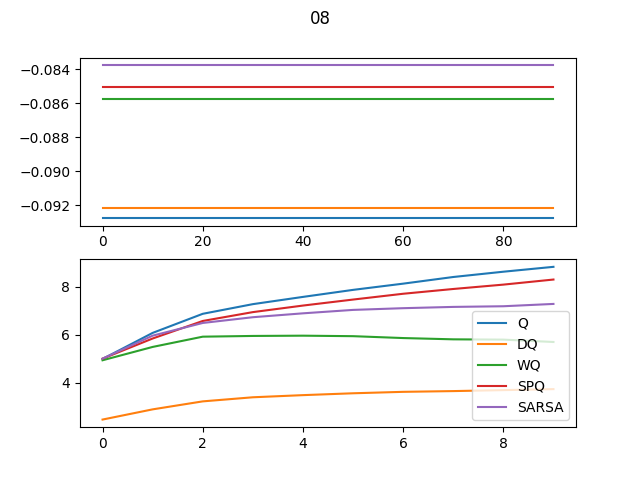
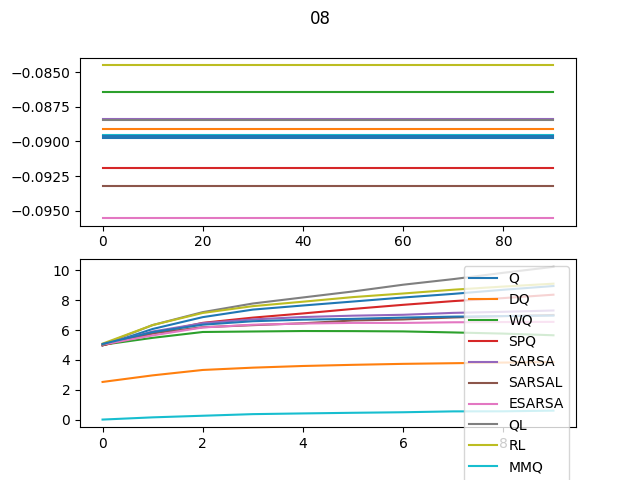
TD methods working

diff --git a/grid_world.py b/grid_world.py
@@ -6,7 +6,8 @@ from matplotlib import pyplot as plt
 from joblib import Parallel, delayed
 
 from mushroom_rl.algorithms.value import QLearning, DoubleQLearning,\
-    WeightedQLearning, SpeedyQLearning, SARSA
+    WeightedQLearning, SpeedyQLearning, SARSA,\
+        SARSALambda, ExpectedSARSA, QLambda, RLearning, MaxminQLearning, RQLearning
 from mushroom_rl.core import Core, Logger
 from mushroom_rl.environments import *
 from mushroom_rl.policy import EpsGreedy
@@ -36,6 +37,15 @@ def experiment(algorithm_class, exp):
     # Agent
     learning_rate = ExponentialParameter(value=1, exp=exp, size=mdp.info.size)
     algorithm_params = dict(learning_rate=learning_rate)
+    
+    # ADD EXTRA ALGORITHM PARAMS IF NEEDED 
+    if algorithm_class in [SARSALambda, QLambda]:
+        algorithm_params['lambda_coeff'] = .5 # Unsure which is best
+    if algorithm_class in [RLearning, RQLearning]:
+        algorithm_params['beta'] = .5 # Unsure which is best. Also RQ requires either beta or delta, not sure which one is best to provide
+    if algorithm_class in [MaxminQLearning]:
+        algorithm_params['n_tables'] = 2 # Unsure which is best
+
     agent = algorithm_class(mdp.info, pi, **algorithm_params)
 
     # Algorithm
@@ -46,7 +56,7 @@ def experiment(algorithm_class, exp):
     core = Core(agent, mdp, callbacks)
 
     # Train
-    core.learn(n_steps=10, n_steps_per_fit=1, quiet=True)
+    core.learn(n_steps=10, n_steps_per_fit=1, quiet=True) #fewer steps for debugging
 
     _, _, reward, _, _, _ = parse_dataset(collect_dataset.get())
     max_Qs = collect_max_Q.get()
@@ -62,7 +72,8 @@ if __name__ == '__main__':
     logger.info('Experiment Algorithm: ' + QLearning.__name__)
 
     names = {1: '1', .8: '08', QLearning: 'Q', DoubleQLearning: 'DQ',
-             WeightedQLearning: 'WQ', SpeedyQLearning: 'SPQ', SARSA: 'SARSA'}
+             WeightedQLearning: 'WQ', SpeedyQLearning: 'SPQ', SARSA: 'SARSA',
+             SARSALambda: 'SARSAL', ExpectedSARSA: 'ESARSA', QLambda: 'QL', RLearning: 'RL', MaxminQLearning: 'MMQ', RQLearning: 'RQ'}
 
     for e in [1, .8]:
         logger.info(f'Exp: {e}')
@@ -70,7 +81,7 @@ if __name__ == '__main__':
         plt.suptitle(names[e])
         legend_labels = []
         for a in [QLearning, DoubleQLearning, WeightedQLearning,
-                  SpeedyQLearning, SARSA]:
+                  SpeedyQLearning, SARSA, SARSALambda, ExpectedSARSA, QLambda, RLearning, MaxminQLearning, RQLearning]:
             logger.info(f'Alg: {names[a]}')
             out = Parallel(n_jobs=-1)(
                 delayed(experiment)(a, e) for _ in range(n_experiment))

diff --git a/README.md b/README.md
@@ -3,4 +3,8 @@ Trying various RL algorithms on grid_wrold
 
 Expanding on https://github.com/MushroomRL/mushroom-rl/blob/dev/examples/grid_world_td.py, which replicates the experiments on the Grid World MDP as presented in: "Double Q-Learning", Hasselt H. V.. 2010.
 
-Already-implemented agents are tested and the following agents are added:
+
+Already-implemented agents are tested and the following agents are to be added (Value-based algorithms from https://mushroomrl.readthedocs.io/en/latest/source/mushroom_rl.algorithms.value.html)
+TD: SARSALambda, ExpectedSARSA, QLambda, RLearning, MaxminQLearning, RQLearning (ALREADY ADDED)
+Batch TD: FQI, DoubleFQI, BoostedFQI, LSPI (NOT YET ADDED)
+DQN: DQN and variants (NOT YET ADDED)
